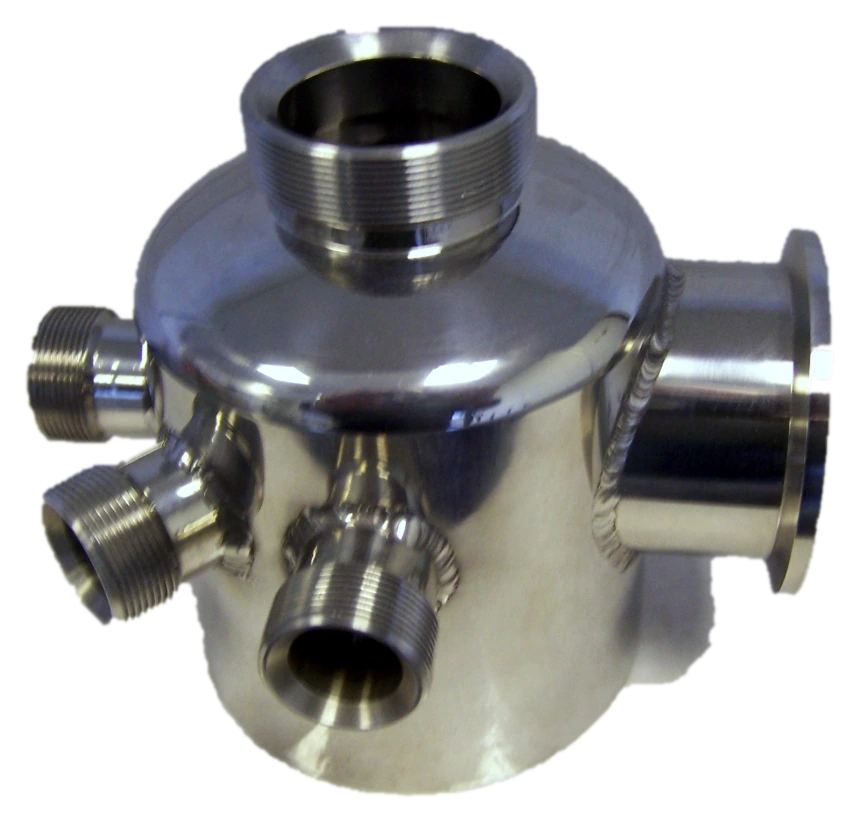
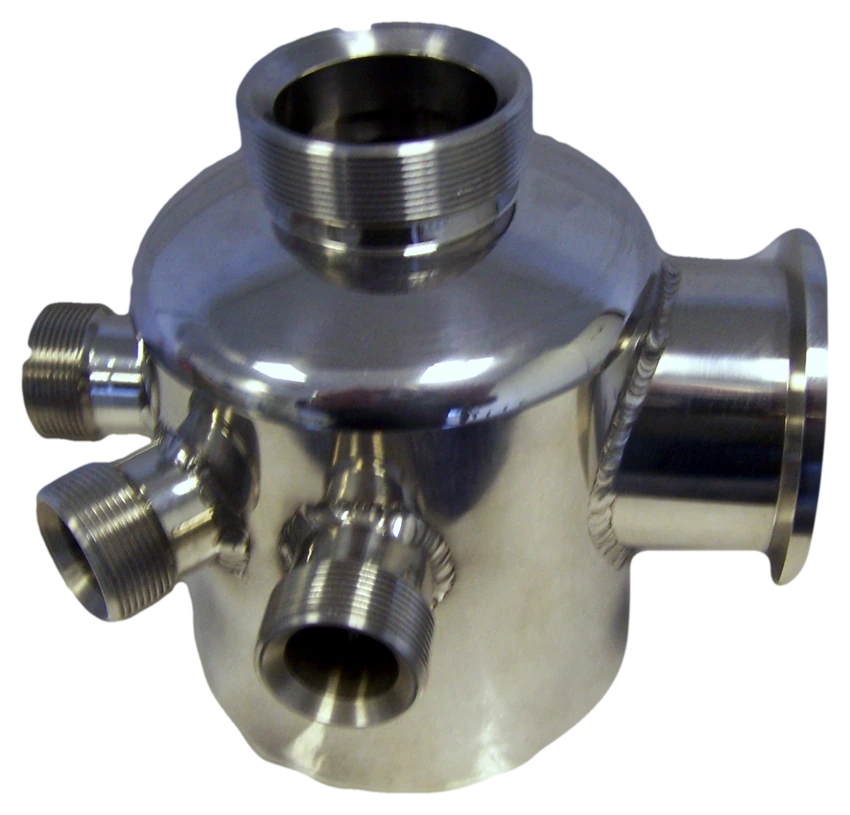
ebp-global (home): clean studio matte on the vessel hero: re-cut at the full 2560px source (GrabCut refined from the first mask), contour smoothed, flange rim closed by its convex hull, the flange's bench shadow and pipe underside clipped to the measured body edge, 1px erode and feather, edge colour
Claude-Session: https://claude.ai/code/session_014388NGkvG2BW6iajAn3eGH

diff --git a/_kit/src/ebp-global.src.html b/_kit/src/ebp-global.src.html
@@ -1351,7 +1351,7 @@ var field=(function(){
   /* DO: the open area right of the H1; its centre is held at 62-75% of the width and the subject is sized to fit with room both sides */
   var HR=0;function OA(){var L=Math.max(HR+Math.max(140,w*.08),w*.5),R=w-Math.max(48,w*.045),cx=Math.min(Math.max((L+R)/2,w*.62),w*.75);return {cx:cx,half:Math.min(cx-L,R-cx)}}
   function sm(x){x=x<0?0:x>1?1:x;return x*x*(3-2*x)}
-  var AR=859/823;  /* render aspect (w/h) */
+  var AR=850/815;  /* render aspect (w/h) */
   function geo(){
     var side=Math.max(Math.min(72,Math.max(16,w*.042)),(w-1320)/2),cw=w-2*side,mob=w<861;
     var ey=mob?document.querySelector("#view .hero .eyebrow"):null,eyT=ey?ey.getBoundingClientRect().top+(window.scrollY||0):h*.45;

diff --git a/ebp-global/index.html b/ebp-global/index.html
@@ -1918,7 +1918,7 @@ var field=(function(){
   /* DO: the open area right of the H1; its centre is held at 62-75% of the width and the subject is sized to fit with room both sides */
   var HR=0;function OA(){var L=Math.max(HR+Math.max(140,w*.08),w*.5),R=w-Math.max(48,w*.045),cx=Math.min(Math.max((L+R)/2,w*.62),w*.75);return {cx:cx,half:Math.min(cx-L,R-cx)}}
   function sm(x){x=x<0?0:x>1?1:x;return x*x*(3-2*x)}
-  var AR=859/823;  /* render aspect (w/h) */
+  var AR=850/815;  /* render aspect (w/h) */
   function geo(){
     var side=Math.max(Math.min(72,Math.max(16,w*.042)),(w-1320)/2),cw=w-2*side,mob=w<861;
     var ey=mob?document.querySelector("#view .hero .eyebrow"):null,eyT=ey?ey.getBoundingClientRect().top+(window.scrollY||0):h*.45;

diff --git a/_kit/home/ebp-global/field.js b/_kit/home/ebp-global/field.js
@@ -8,7 +8,7 @@ var field=(function(){
   /* DO: the open area right of the H1; its centre is held at 62-75% of the width and the subject is sized to fit with room both sides */
   var HR=0;function OA(){var L=Math.max(HR+Math.max(140,w*.08),w*.5),R=w-Math.max(48,w*.045),cx=Math.min(Math.max((L+R)/2,w*.62),w*.75);return {cx:cx,half:Math.min(cx-L,R-cx)}}
   function sm(x){x=x<0?0:x>1?1:x;return x*x*(3-2*x)}
-  var AR=859/823;  /* render aspect (w/h) */
+  var AR=850/815;  /* render aspect (w/h) */
   function geo(){
     var side=Math.max(Math.min(72,Math.max(16,w*.042)),(w-1320)/2),cw=w-2*side,mob=w<861;
     var ey=mob?document.querySelector("#view .hero .eyebrow"):null,eyT=ey?ey.getBoundingClientRect().top+(window.scrollY||0):h*.45;

diff --git a/_kit/home/ebp-global/cutout.py b/_kit/home/ebp-global/cutout.py
@@ -1,0 +1,49 @@
+import cv2, numpy as np, sys
+from PIL import Image
+full=cv2.imread('img/Top-hat-scaled.jpg'); H,W=full.shape[:2]
+m0=cv2.imread('mask0.png',0); m0=cv2.resize(m0,(W,H),interpolation=cv2.INTER_LINEAR)
+gc=np.full((H,W),cv2.GC_PR_BGD,np.uint8)
+inner=cv2.erode((m0>127).astype(np.uint8),np.ones((25,25),np.uint8)); outer=cv2.dilate((m0>127).astype(np.uint8),np.ones((25,25),np.uint8))
+gc[m0>127]=cv2.GC_PR_FGD; gc[inner>0]=cv2.GC_FGD; gc[outer==0]=cv2.GC_BGD
+bg=np.zeros((1,65)); fg=np.zeros((1,65)); cv2.grabCut(full,gc,None,bg,fg,4,cv2.GC_INIT_WITH_MASK)
+m=((gc==1)|(gc==3)).astype(np.uint8)*255
+n,lab,st,_=cv2.connectedComponentsWithStats(m); k=1+np.argmax(st[1:,cv2.CC_STAT_AREA]); m=np.where(lab==k,255,0).astype(np.uint8)
+ff=m.copy(); fl=np.zeros((H+2,W+2),np.uint8); cv2.floodFill(ff,fl,(0,0),255); m=m|cv2.bitwise_not(ff)
+m=cv2.morphologyEx(m,cv2.MORPH_OPEN,cv2.getStructuringElement(cv2.MORPH_ELLIPSE,(11,11)))
+x0,y0,bw,bh=cv2.boundingRect((m>0).astype(np.uint8))
+FXC=float(sys.argv[2]) if len(sys.argv)>2 else 0.845; FYC=float(sys.argv[3]) if len(sys.argv)>3 else 0.765
+# flange rim is convex: fill its convex hull (closes the bite where the white highlight dropped out)
+reg=np.zeros_like(m); X0=int(x0+0.905*bw); Y0=int(y0+0.20*bh); Y1=int(y0+0.77*bh); reg[Y0:Y1,X0:]=m[Y0:Y1,X0:]
+cs_,_=cv2.findContours(reg,cv2.RETR_EXTERNAL,cv2.CHAIN_APPROX_NONE)
+if cs_: cv2.fillPoly(m,[cv2.convexHull(max(cs_,key=cv2.contourArea))],255)
+# cylinder below the flange: clip the bench that sticks out past its straight right side
+# (measured on the 2560px source: the body's right side runs at x~1570 below the flange, then rounds into the base;
+#  everything outside it there is the flange's shadow on the bench)
+cv2.fillPoly(m,[np.array([(1574,1226),(1852,1226),(1849,1290),(1858,1306),(1895,1293),(1925,1262),(1946,1226),(W,1226),(W,H),(1280,H),(1368,1642),(1440,1594),(1500,1544),(1546,1484),(1568,1420),(1574,1330)],np.int32)],0)
+cont,_=cv2.findContours(m,cv2.RETR_EXTERNAL,cv2.CHAIN_APPROX_NONE); C=max(cont,key=cv2.contourArea)[:,0,:].astype(np.float64)
+x0,y0,bw,bh=cv2.boundingRect(C.astype(np.int32))
+fx=(C[:,0]-x0)/bw; fy=(C[:,1]-y0)/bh
+# smoothing window per point: heavy on the flange rim and the plain lower body/base, light on the threaded ports
+heavy=((fx>0.66)&(fy>0.22))|(fy>0.74)
+win=np.where(heavy,int(sys.argv[1]) if len(sys.argv)>1 else 71,15)
+win=np.round(cv2.GaussianBlur(win.astype(np.float32).reshape(-1,1),(1,0),sigmaX=0,sigmaY=40).ravel()) if False else win
+N=len(C); cs=np.vstack([C,C,C]); S=np.cumsum(np.vstack([[0,0],cs]),0)
+out=np.zeros_like(C)
+for i in range(N):
+    h=win[i]//2; a=N+i-h; b=N+i+h+1; out[i]=(S[b]-S[a])/(b-a)
+# second pass light smoothing to blend the window change
+cs=np.vstack([out,out,out]); S=np.cumsum(np.vstack([[0,0],cs]),0); out2=np.zeros_like(out)
+for i in range(N): a=N+i-7; b=N+i+8; out2[i]=(S[b]-S[a])/(b-a)
+SH=4; mk=np.zeros((H,W),np.uint8); cv2.fillPoly(mk,[np.round(out2*(1<<SH)).astype(np.int32).reshape(-1,1,2)],255,lineType=cv2.LINE_AA,shift=SH)
+mk=cv2.erode(mk,cv2.getStructuringElement(cv2.MORPH_ELLIPSE,(5,5)))
+a=cv2.GaussianBlur(mk.astype(np.float32)/255,(0,0),1.4)
+im=full.astype(np.float32)/255
+core=cv2.erode((mk>127).astype(np.uint8)*255,cv2.getStructuringElement(cv2.MORPH_ELLIPSE,(15,15))).astype(np.float32)/255
+num=cv2.GaussianBlur(im*core[...,None],(0,0),6); den=cv2.GaussianBlur(core,(0,0),6)[...,None]; fillc=num/np.maximum(den,1e-4)
+wc=np.clip(cv2.GaussianBlur(core,(0,0),2),0,1)[...,None]; im=im*wc+fillc*(1-wc)
+sel=core>0.5; mean=im[sel].mean(0); im=im*(mean.mean()/mean); im=np.clip((im-0.04)/0.94,0,1)**1.08
+rgba=np.dstack([(im[...,::-1]*255+.5).astype(np.uint8),(np.clip(a,0,1)*255+.5).astype(np.uint8)])
+P=Image.fromarray(rgba,'RGBA'); bb=P.getbbox(); mg=40; P=P.crop((bb[0]-mg,bb[1]-mg,bb[2]+mg,bb[3]+mg))
+P=P.convert('RGBa').resize((P.width//2,P.height//2),Image.LANCZOS).convert('RGBA'); print(P.size); P.save('vessel4.png')
+Wt=Image.new('RGBA',P.size,(255,255,255,255)); Wt.alpha_composite(P); Wt.convert('RGB').save('vessel4_prev.png')
+z=Wt.crop((520,180,P.width,P.height)); z.resize((z.width*2,z.height*2),Image.LANCZOS).convert('RGB').save('edge_zoom4.png')
